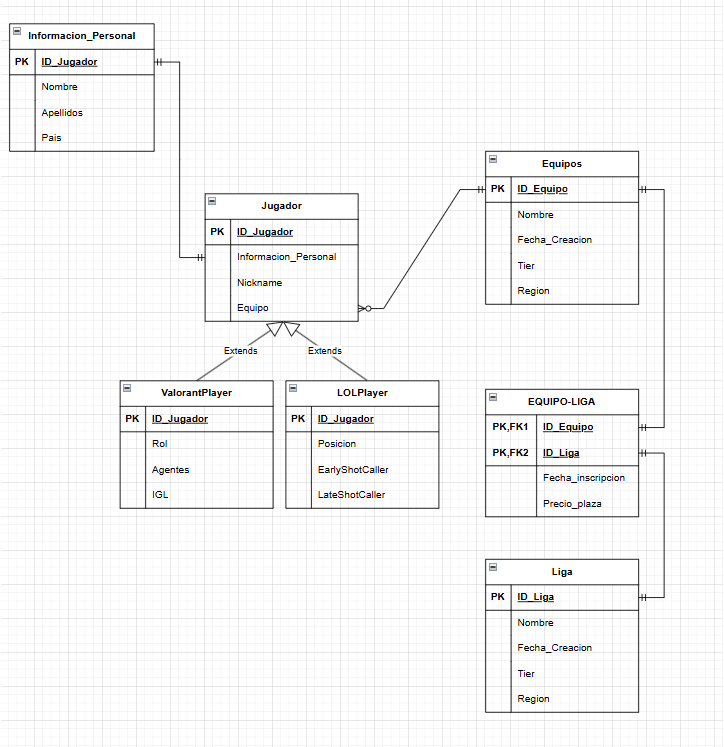
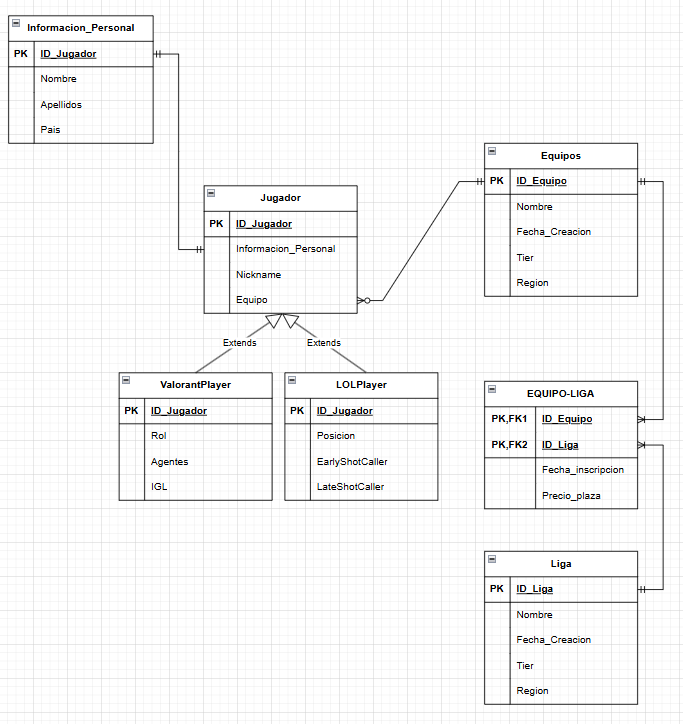
Refactor(Readme.md):Cambio en las relaciones entre liga y equipo

diff --git a/src/main/java/edu/badpals/proyectoad3/model/EquipoLiga.java b/src/main/java/edu/badpals/proyectoad3/model/EquipoLiga.java
@@ -1,0 +1,29 @@
+package edu.badpals.proyectoad3.model;
+
+import jakarta.persistence.*;
+import java.time.LocalDate;
+
+@Entity
+@Table(name = "equipo_liga", uniqueConstraints = @UniqueConstraint(columnNames = {"id_equipo", "id_liga"}))
+public class EquipoLiga {
+
+    @Id
+    @GeneratedValue(strategy = GenerationType.IDENTITY)
+    private Long id;
+
+    @ManyToOne
+    @JoinColumn(name = "idEquipo", nullable = false)
+    private Equipos equipo;
+
+    @ManyToOne
+    @JoinColumn(name = "idLiga", nullable = false)
+    private Liga liga;
+
+    @Column(name = "Fecha_inscripcion", nullable = false)
+    private LocalDate fechaInscripcion;
+
+    @Column(name = "Precio_plaza", nullable = false)
+    private Double precioPlaza;
+
+    // Getters, setters y constructores
+}

diff --git a/src/main/java/edu/badpals/proyectoad3/model/Liga.java b/src/main/java/edu/badpals/proyectoad3/model/Liga.java
@@ -22,7 +22,4 @@ public class Liga {
 
     @Column(name = "Tier", nullable = false)
     private String Tier;
-
-
-
 }
